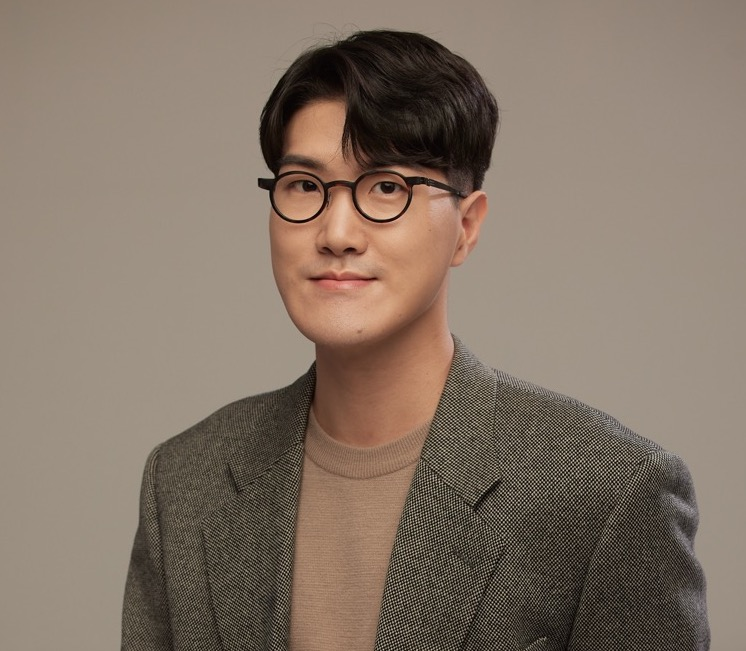
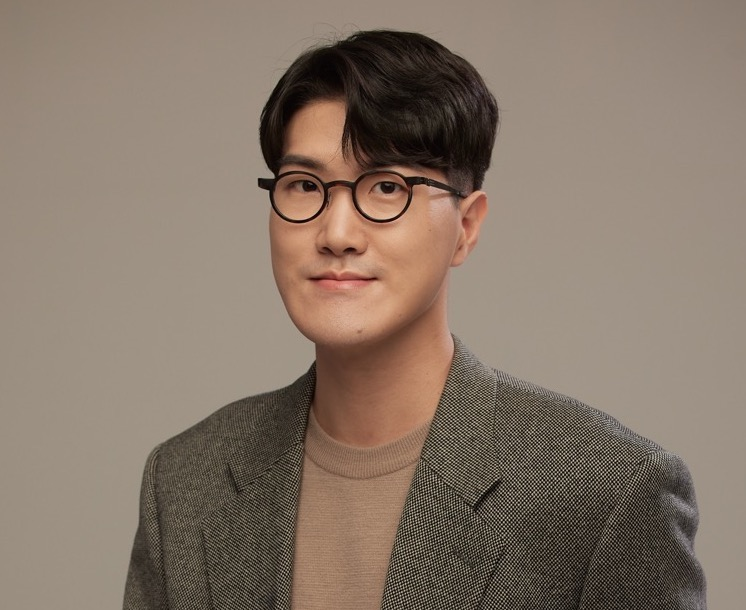
additional tweaks

diff --git a/data/authors/default.md b/data/authors/default.md
@@ -1,7 +1,7 @@
 ---
 name: JiWoong Jang (장지웅)
 koreanname: (I usually go by Joon)
-avatar: '/static/images/profile/headshot_square_web.jpg'
+avatar: '/static/images/profile/alt-profile.jpg'
 
 occupation: research in A11y & HCI
 company: phd student @ CMU HCII
